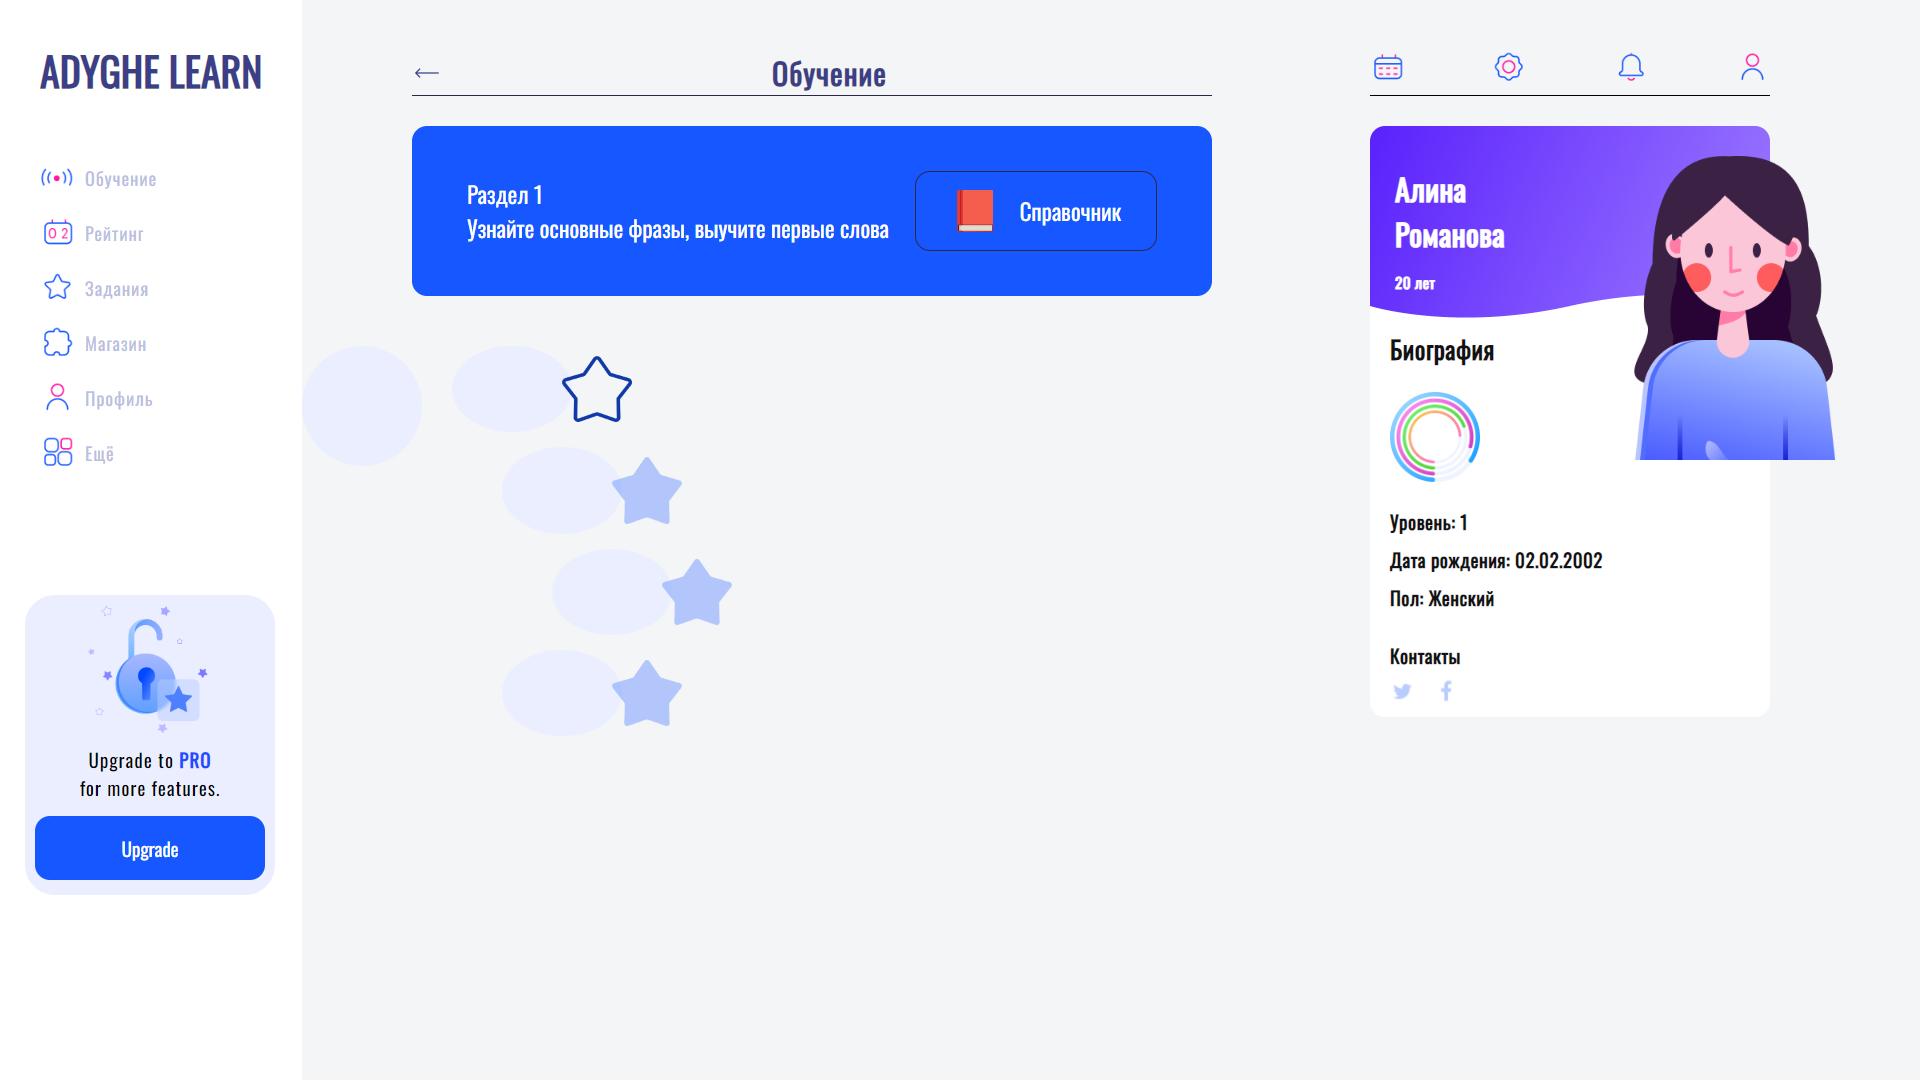
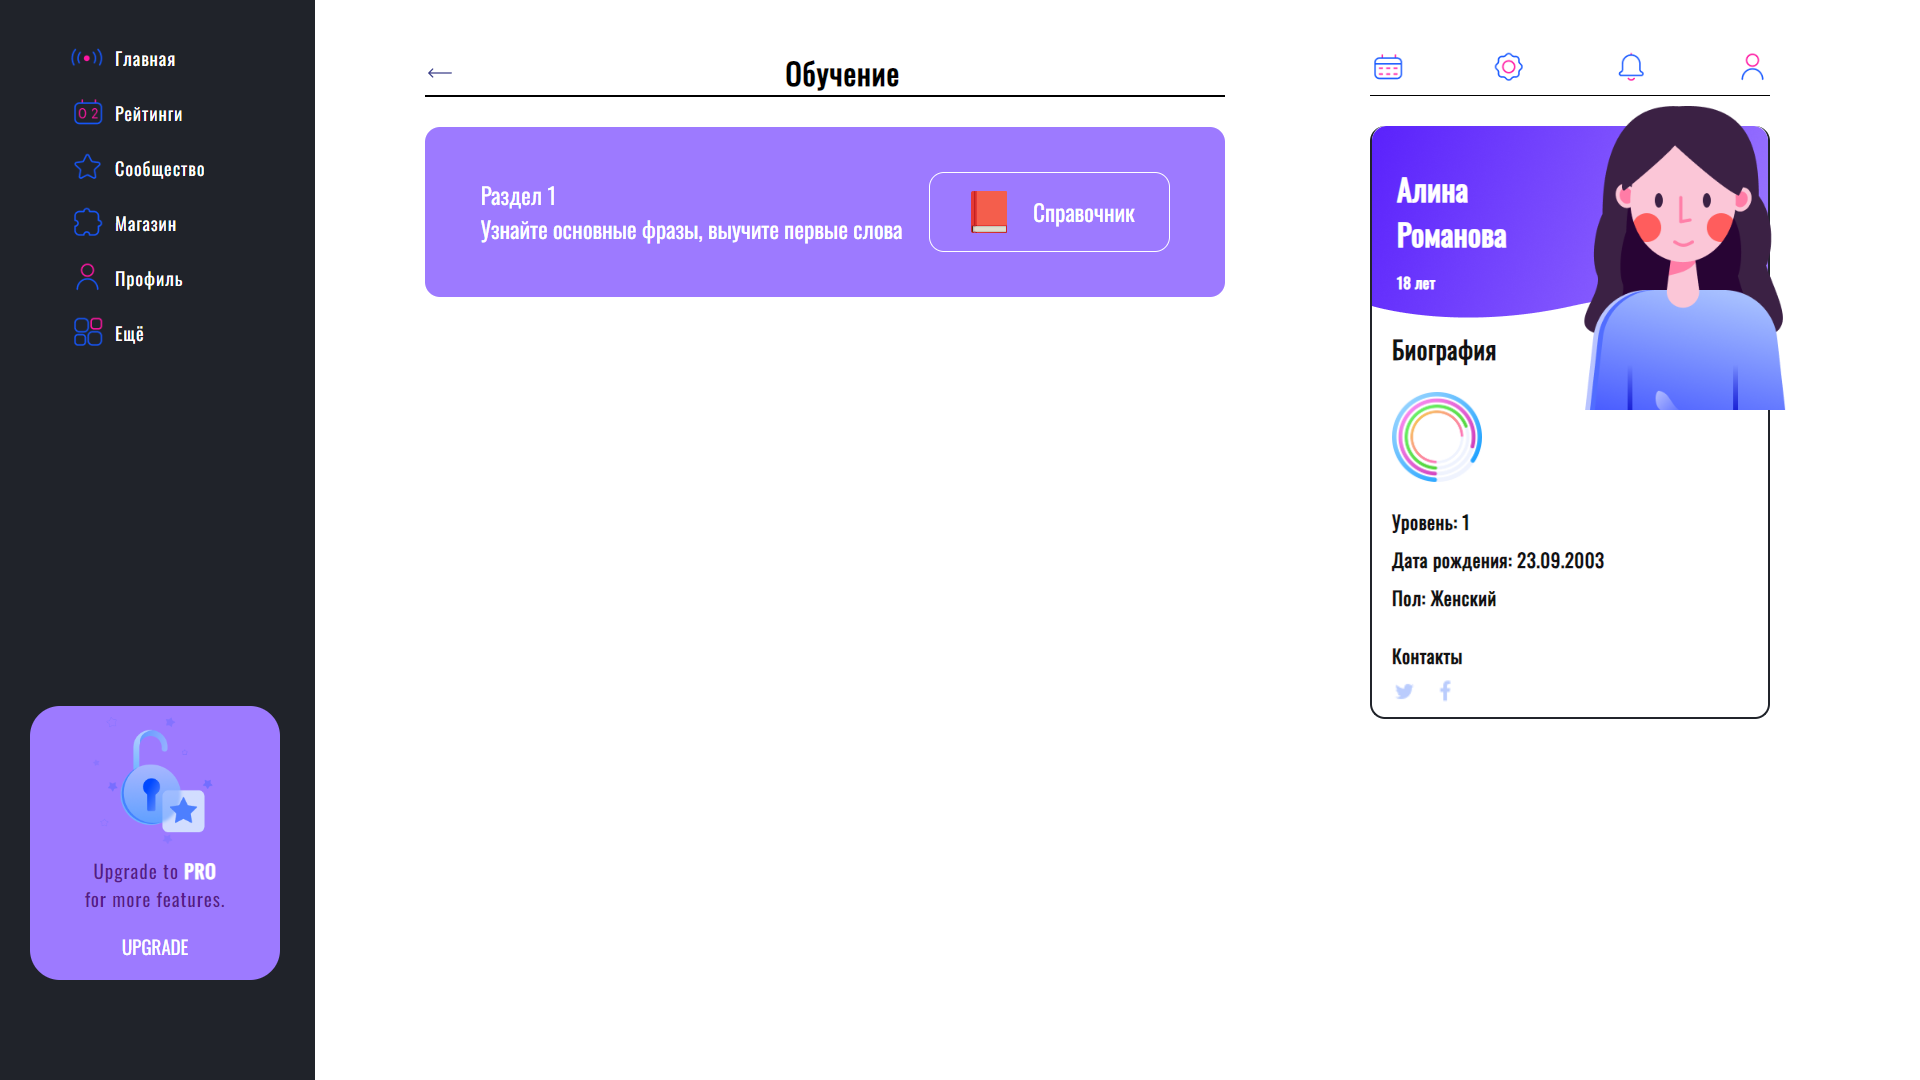
09 12 2023 Пока все четко

diff --git a/src/components/LearnParts/Learn.css b/src/components/LearnParts/Learn.css
@@ -107,7 +107,7 @@
   padding-right: 50px;
 }
 .center-header{
-  border-bottom: 2px solid  #9D7AFF;
+  border-bottom: 2px solid  black;
   max-width: 800px;
   display: flex;
   align-items: center;
@@ -120,7 +120,7 @@
 
 }
 .center-header__title {
-  color: #9D7AFF;
+  color: black;
   font-size: 30px;
   font-style: normal;
   font-weight: 600;
@@ -183,8 +183,9 @@
 /* ------------------RIGHT--------------------- */
 
 .right {
+  padding-top: 50px;
   padding-right: 150px;
-  margin-top: 50px;
+  padding-left: 50px;
   position: relative;
   
 }
@@ -217,7 +218,8 @@
   margin: 0 auto;
   max-width: 400px; 
   margin-bottom: 40px;
-  
+  border: 2px solid #20232a;
+  border-top: none;
 }
 .right-profile__head{
   background: url("../../images/Learn/Right/Rectangle\ 45.png") no-repeat;
@@ -250,6 +252,7 @@
 }
 .right-profile__bio {
   margin-left: 20px;
+  
   
 }
 .right-profile__bio__text{

diff --git a/src/components/First/First.css b/src/components/First/First.css
@@ -1,5 +1,5 @@
 .first {
-  margin-top: 110px;
+  padding-top: 110px;
   background: #20232a;
   background-size: cover;
   padding-top: 70px;
@@ -12,6 +12,7 @@
   flex-direction: column;
 }
 .first-title {
+  margin-top: 110px;
   font-size: 72px;
   color: #9D7AFF;
   
